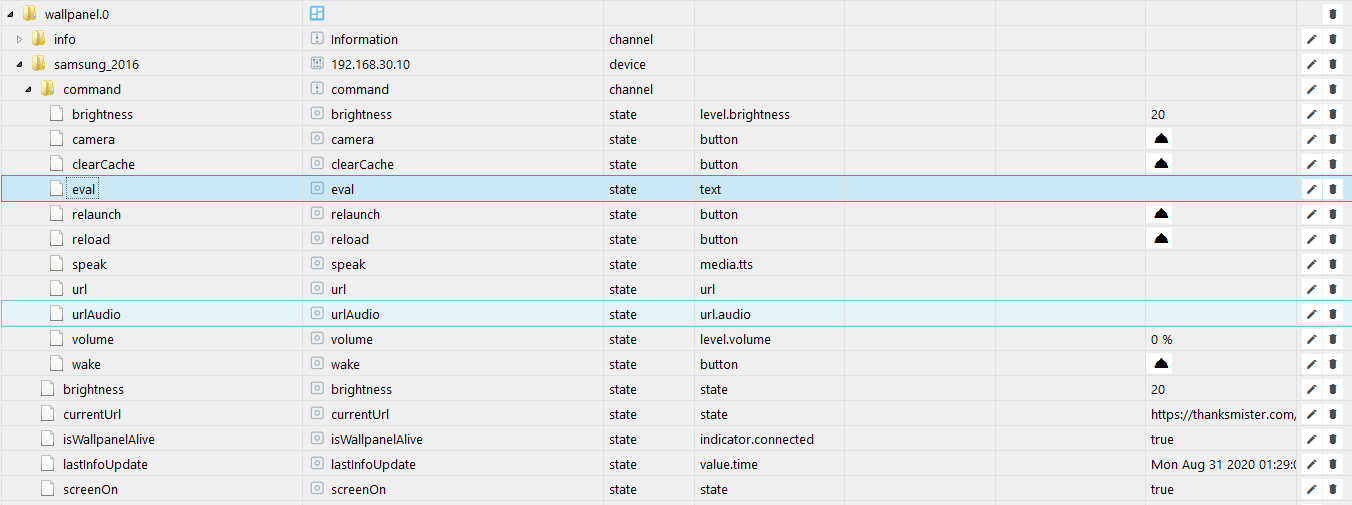
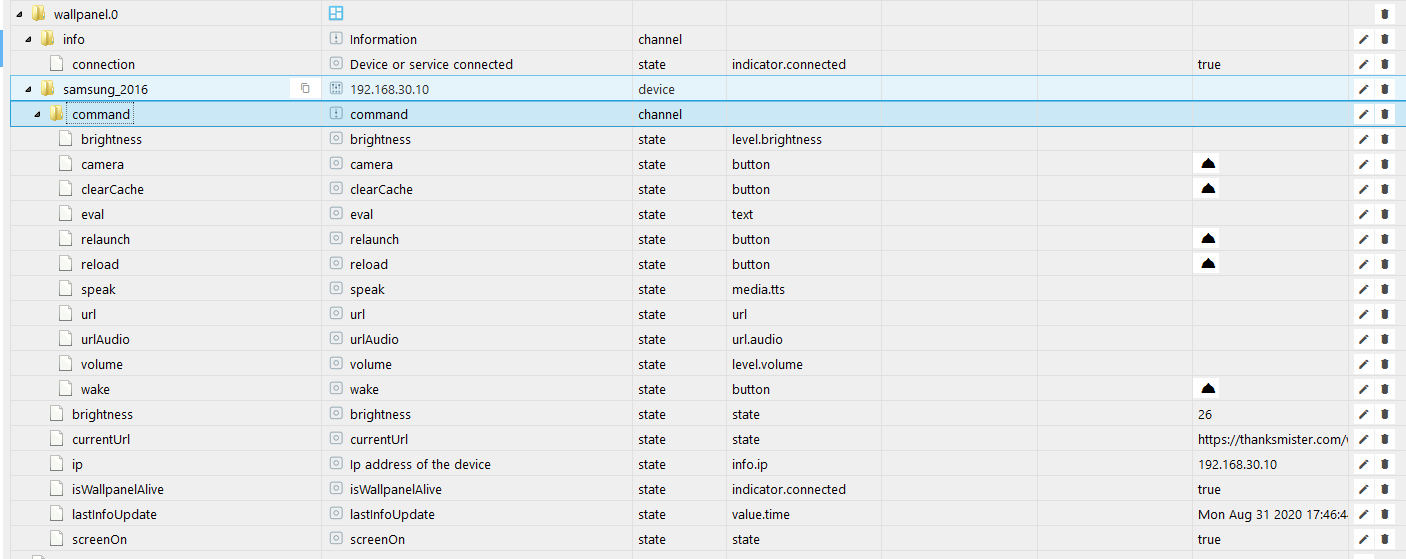
### 0.1.1 added IP address datapoint

diff --git a/admin/words.js b/admin/words.js
@@ -2,29 +2,29 @@
 'use strict';
 
 systemDictionary = {
-	"when activated the states are automatically deleted when a device has been deleted": {
-		"en": "when activated the states are automatically deleted when a device has been deleted",
-		"de": "Bei Aktivierung werden die Zustände automatisch gelöscht, wenn ein Gerät gelöscht wurde",
-		"ru": "при активации состояния автоматически удаляются при удалении устройства",
-		"pt": "quando ativado, os estados são excluídos automaticamente quando um dispositivo é excluído",
-		"nl": "indien geactiveerd, worden de statussen automatisch verwijderd wanneer een apparaat is verwijderd",
-		"fr": "lorsqu'il est activé, les états sont automatiquement supprimés lorsqu'un appareil a été supprimé",
-		"it": "all'attivazione gli stati vengono cancellati automaticamente quando un dispositivo è stato cancellato",
-		"es": "cuando se activa, los estados se eliminan automáticamente cuando se elimina un dispositivo",
-		"pl": "po włączeniu stany są automatycznie usuwane po usunięciu urządzenia",
-		"zh-cn": "激活后，删除设备后状态会自动删除"
+	'when activated the states are automatically deleted when a device has been deleted': {
+		'en': 'when activated the states are automatically deleted when a device has been deleted',
+		'de': 'Bei Aktivierung werden die Zustände automatisch gelöscht, wenn ein Gerät gelöscht wurde',
+		'ru': 'при активации состояния автоматически удаляются при удалении устройства',
+		'pt': 'quando ativado, os estados são excluídos automaticamente quando um dispositivo é excluído',
+		'nl': 'indien geactiveerd, worden de statussen automatisch verwijderd wanneer een apparaat is verwijderd',
+		'fr': 'lorsqu\'il est activé, les états sont automatiquement supprimés lorsqu\'un appareil a été supprimé',
+		'it': 'all\'attivazione gli stati vengono cancellati automaticamente quando un dispositivo è stato cancellato',
+		'es': 'cuando se activa, los estados se eliminan automáticamente cuando se elimina un dispositivo',
+		'pl': 'po włączeniu stany są automatycznie usuwane po usunięciu urządzenia',
+		'zh-cn': '激活后，删除设备后状态会自动删除'
 	},
-	"Caution": {
-		"en": "Caution",
-		"de": "Vorsicht",
-		"ru": "осторожность",
-		"pt": "Cuidado",
-		"nl": "voorzichtigheid",
-		"fr": "mise en garde",
-		"it": "attenzione",
-		"es": "precaución",
-		"pl": "Uwaga",
-		"zh-cn": "警告"
+	'Caution': {
+		'en': 'Caution',
+		'de': 'Vorsicht',
+		'ru': 'осторожность',
+		'pt': 'Cuidado',
+		'nl': 'voorzichtigheid',
+		'fr': 'mise en garde',
+		'it': 'attenzione',
+		'es': 'precaución',
+		'pl': 'Uwaga',
+		'zh-cn': '警告'
 	},
 	'wallpanel adapter settings': {
 		'en': 'Adapter settings for wallpanel',
@@ -109,7 +109,7 @@ systemDictionary = {
 		'es': 'añadir dispositivo',
 		'pl': 'Dodaj urządzenie',
 		'zh-cn': '添加设备'
-	},
+	}
 
 
 };

diff --git a/lib/object_definition.js b/lib/object_definition.js
@@ -1,10 +1,3 @@
-// const commandStates = [`clearCache`, `relaunch`, `reload`, `wake`, `camera`, `brightness`, `volume`, `url`, `urlAudio`,
-// 	`speak`, `eval`];
-// const commandStatesRole = [`button`, `button`, `button`, `button`, `button`, `level.dimmer`, `level.volume`, `url`,
-// 	`url.audio`, `media.tts`, `text`];
-// const commandStatesDef = [true, true, true, true, true, 255, 100, ``, ``, ``, ``];
-// const commandStatesType = [`boolean`, `boolean`, `boolean`, `boolean`, `boolean`, `number`, `number`, `string`,
-// 	`string`, `string`, `string`];
 const object_command_definitions = {
 	'clearCache': {
 		type: 'state',
@@ -145,6 +138,7 @@ const object_command_definitions = {
 		native: {}
 	}
 }
+
 const object_info_definitions = {
 	'isWallpanelAlive': {
 		type: 'state',
@@ -169,7 +163,20 @@ const object_info_definitions = {
 			write: false
 		},
 		native: {}
-	}
+	},
+	'ip': {
+		type: 'state',
+		common: {
+			name: `Ip address of the device `,
+			type: `string`,
+			role: `info.ip`,
+			def: '',
+			read: true,
+			write: false
+		},
+		native: {}
+	},
+
 }
 
 module.exports = {object_command_definitions, object_info_definitions};

diff --git a/main.js b/main.js
@@ -94,7 +94,7 @@ class Wallpanel extends utils.Adapter {
 
 					this.log.debug(`Check whether the IP address is available for the ${Name}`)
 					deviceEnabled[i] = ip[i] !== '' && deviceEnabled[i];
-					this.log.debug(`${Name} has no ip address device is not queried`)
+					if (ip[i] === '') this.log.debug(`${Name} has no ip address device is not queried`)
 
 					this.log.debug(`it is checked whether the name of the device is entered`)
 					// Prepare tablet name
@@ -264,10 +264,13 @@ class Wallpanel extends utils.Adapter {
 			this.log.debug(`stats are written now`)
 			for (const r in requestStates) {
 
-				const result = Object.values(res['data'])[r];
+				let result = Object.values(res['data'])[r];
+
 				await this.setStateAsync(`${tabletName[index]}.${requestStates[r]}`, {val: result, ack: true});
 
 			}
+			await this.setStateAsync(`${tabletName[index]}.${Object.keys(infoObjects)[2]}`, {val: ip[index], ack: true});
+
 		}
 		catch (error) {
 			this.log.error(`state_write has a problem: ${error.message}, stack: ${error.stack}`);

diff --git a/README.md b/README.md
@@ -57,12 +57,16 @@ Hier eine Übersicht über die Stats.
 #### Abfrage der states
 * brightness ===> aktueller Helligkeitswert des Bildschirms.
 * currentUrl ===> Aktuelle URL, die angezeigt wird.
+* ip ===> Ip Adresse vom dem Device.
 * isWallpanelAlive ===> kommt vom Adapter und zeigt an, ob das Devise erreichbar ist.
 * lastInfoUpdate ===> kommt vom Adapter und zeigt an, wann die letzte Aktualisierung der states war.
 * screenOn ===> zeigt an ob der Bildschirm grade an ist
 
 
 ## Changelog
+
+### 0.1.1
+* (xXBJXx) added IP address datapoint
 
 ### 0.1.0
 * (xXBJXx) Revised code
